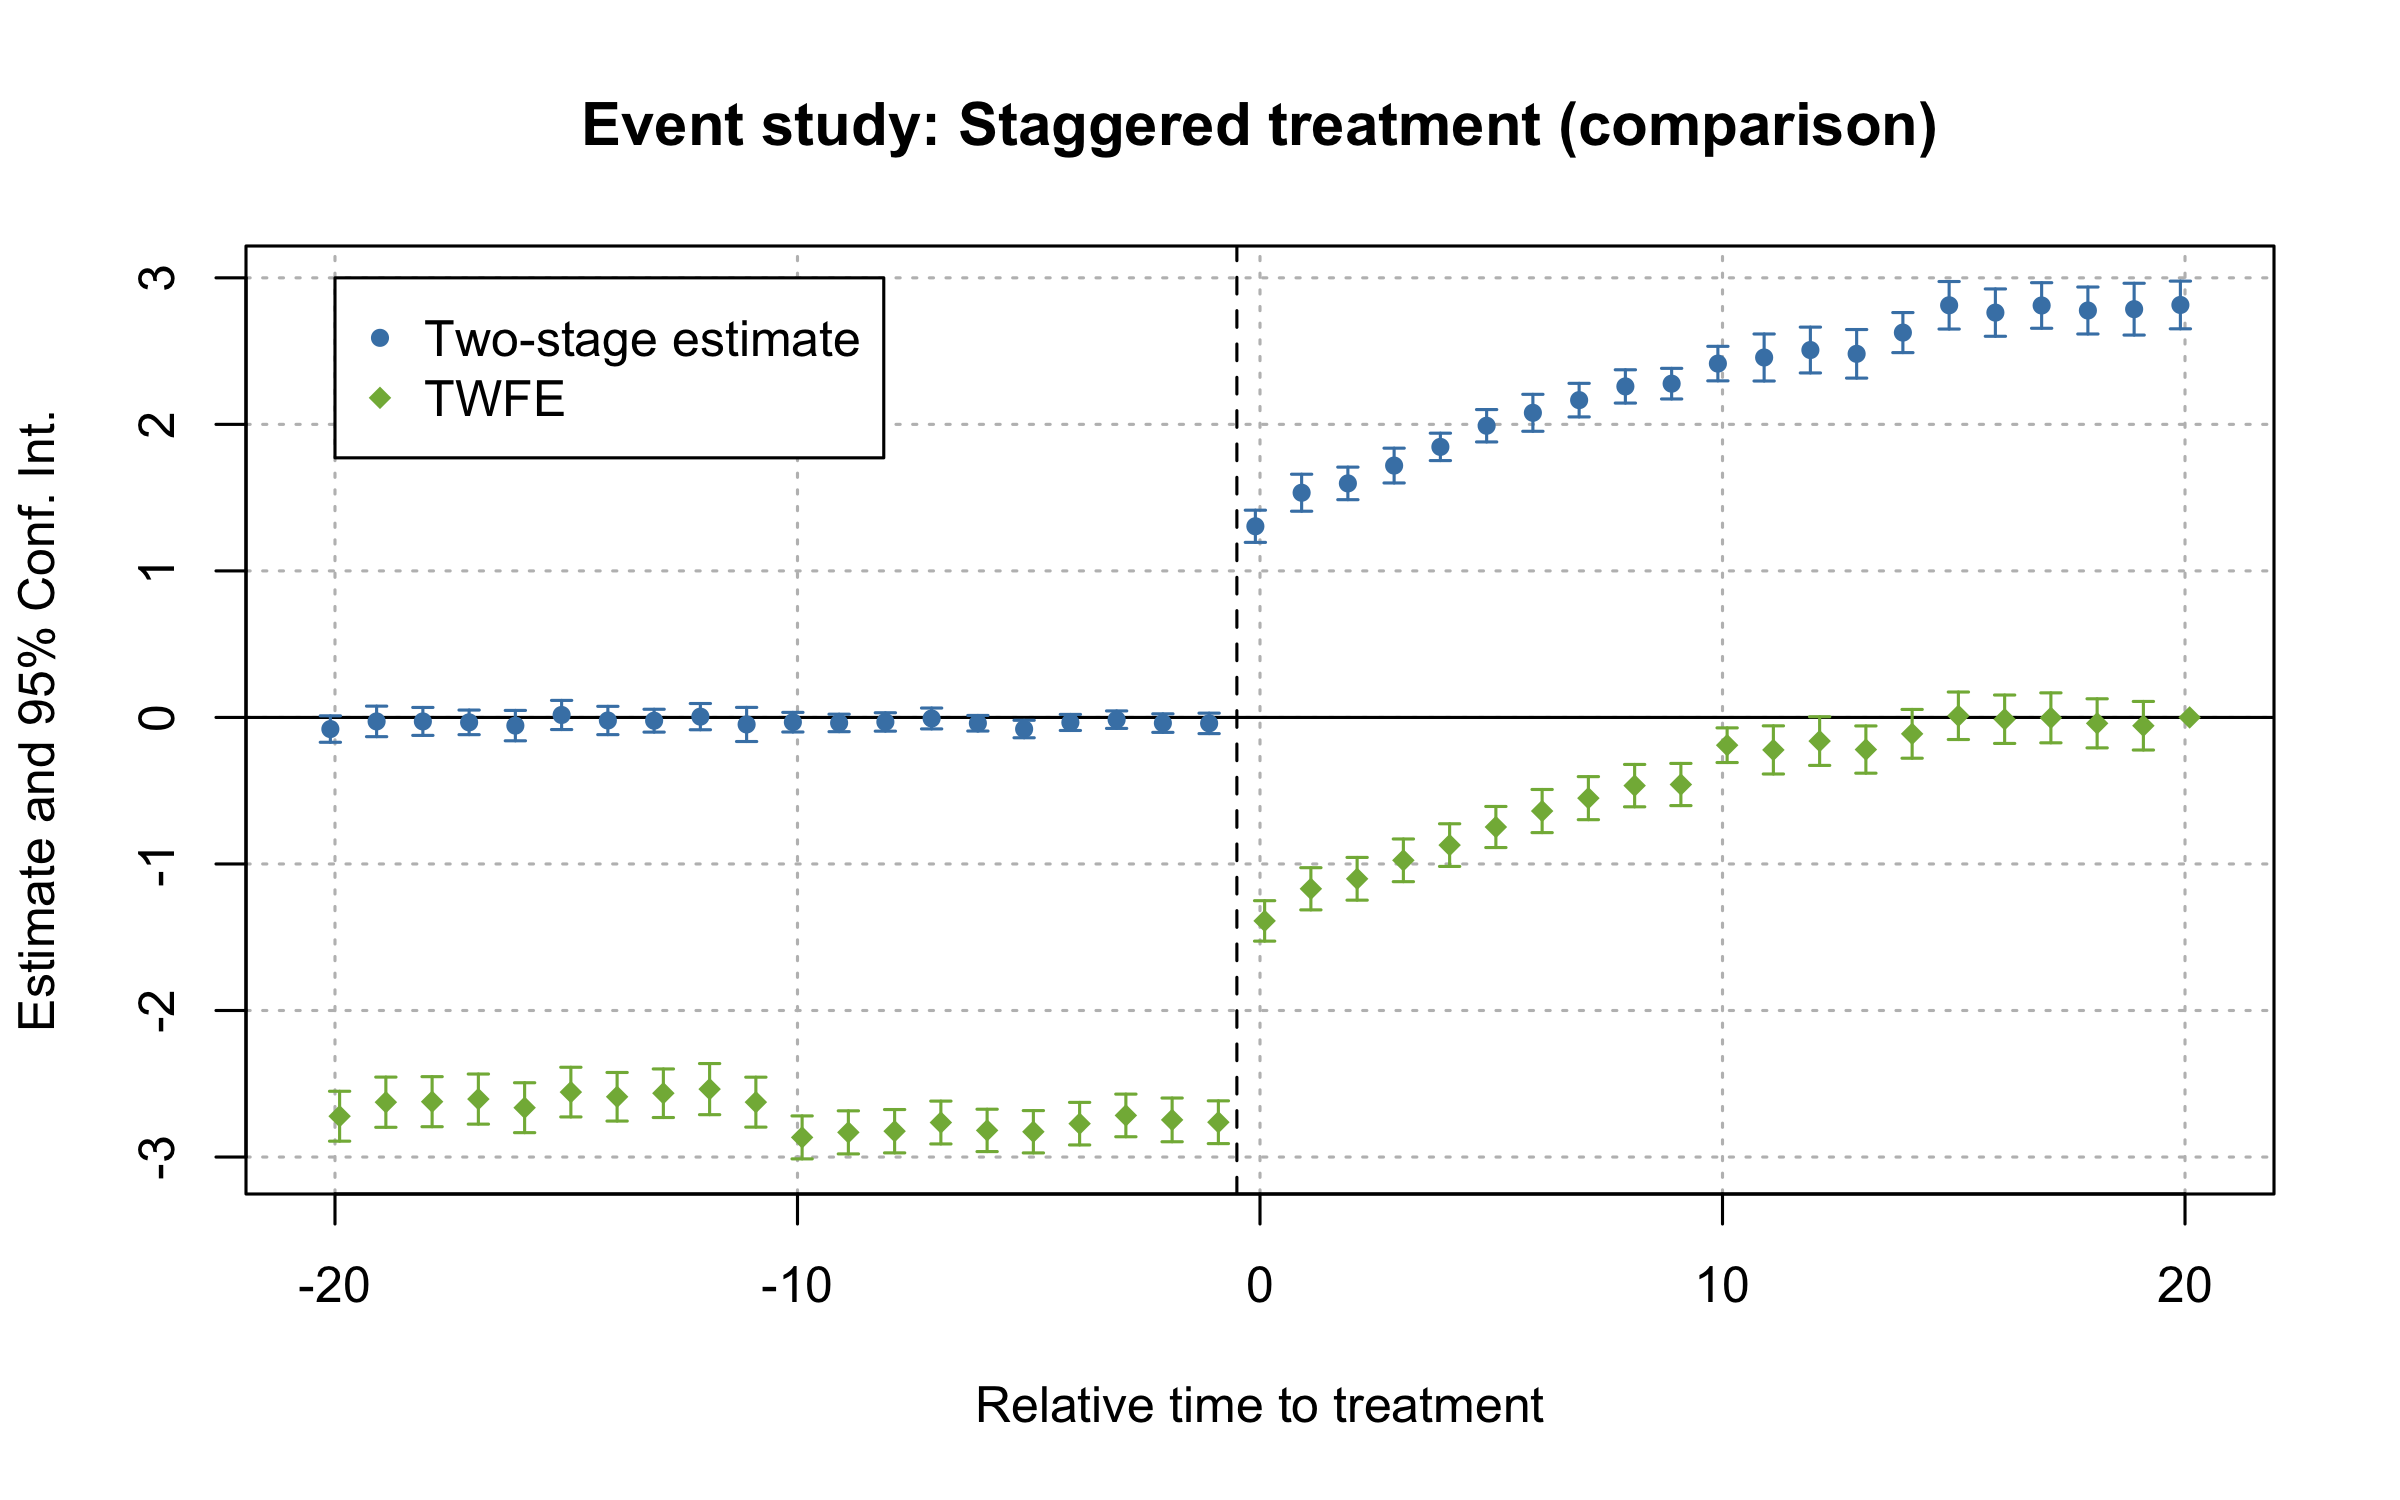
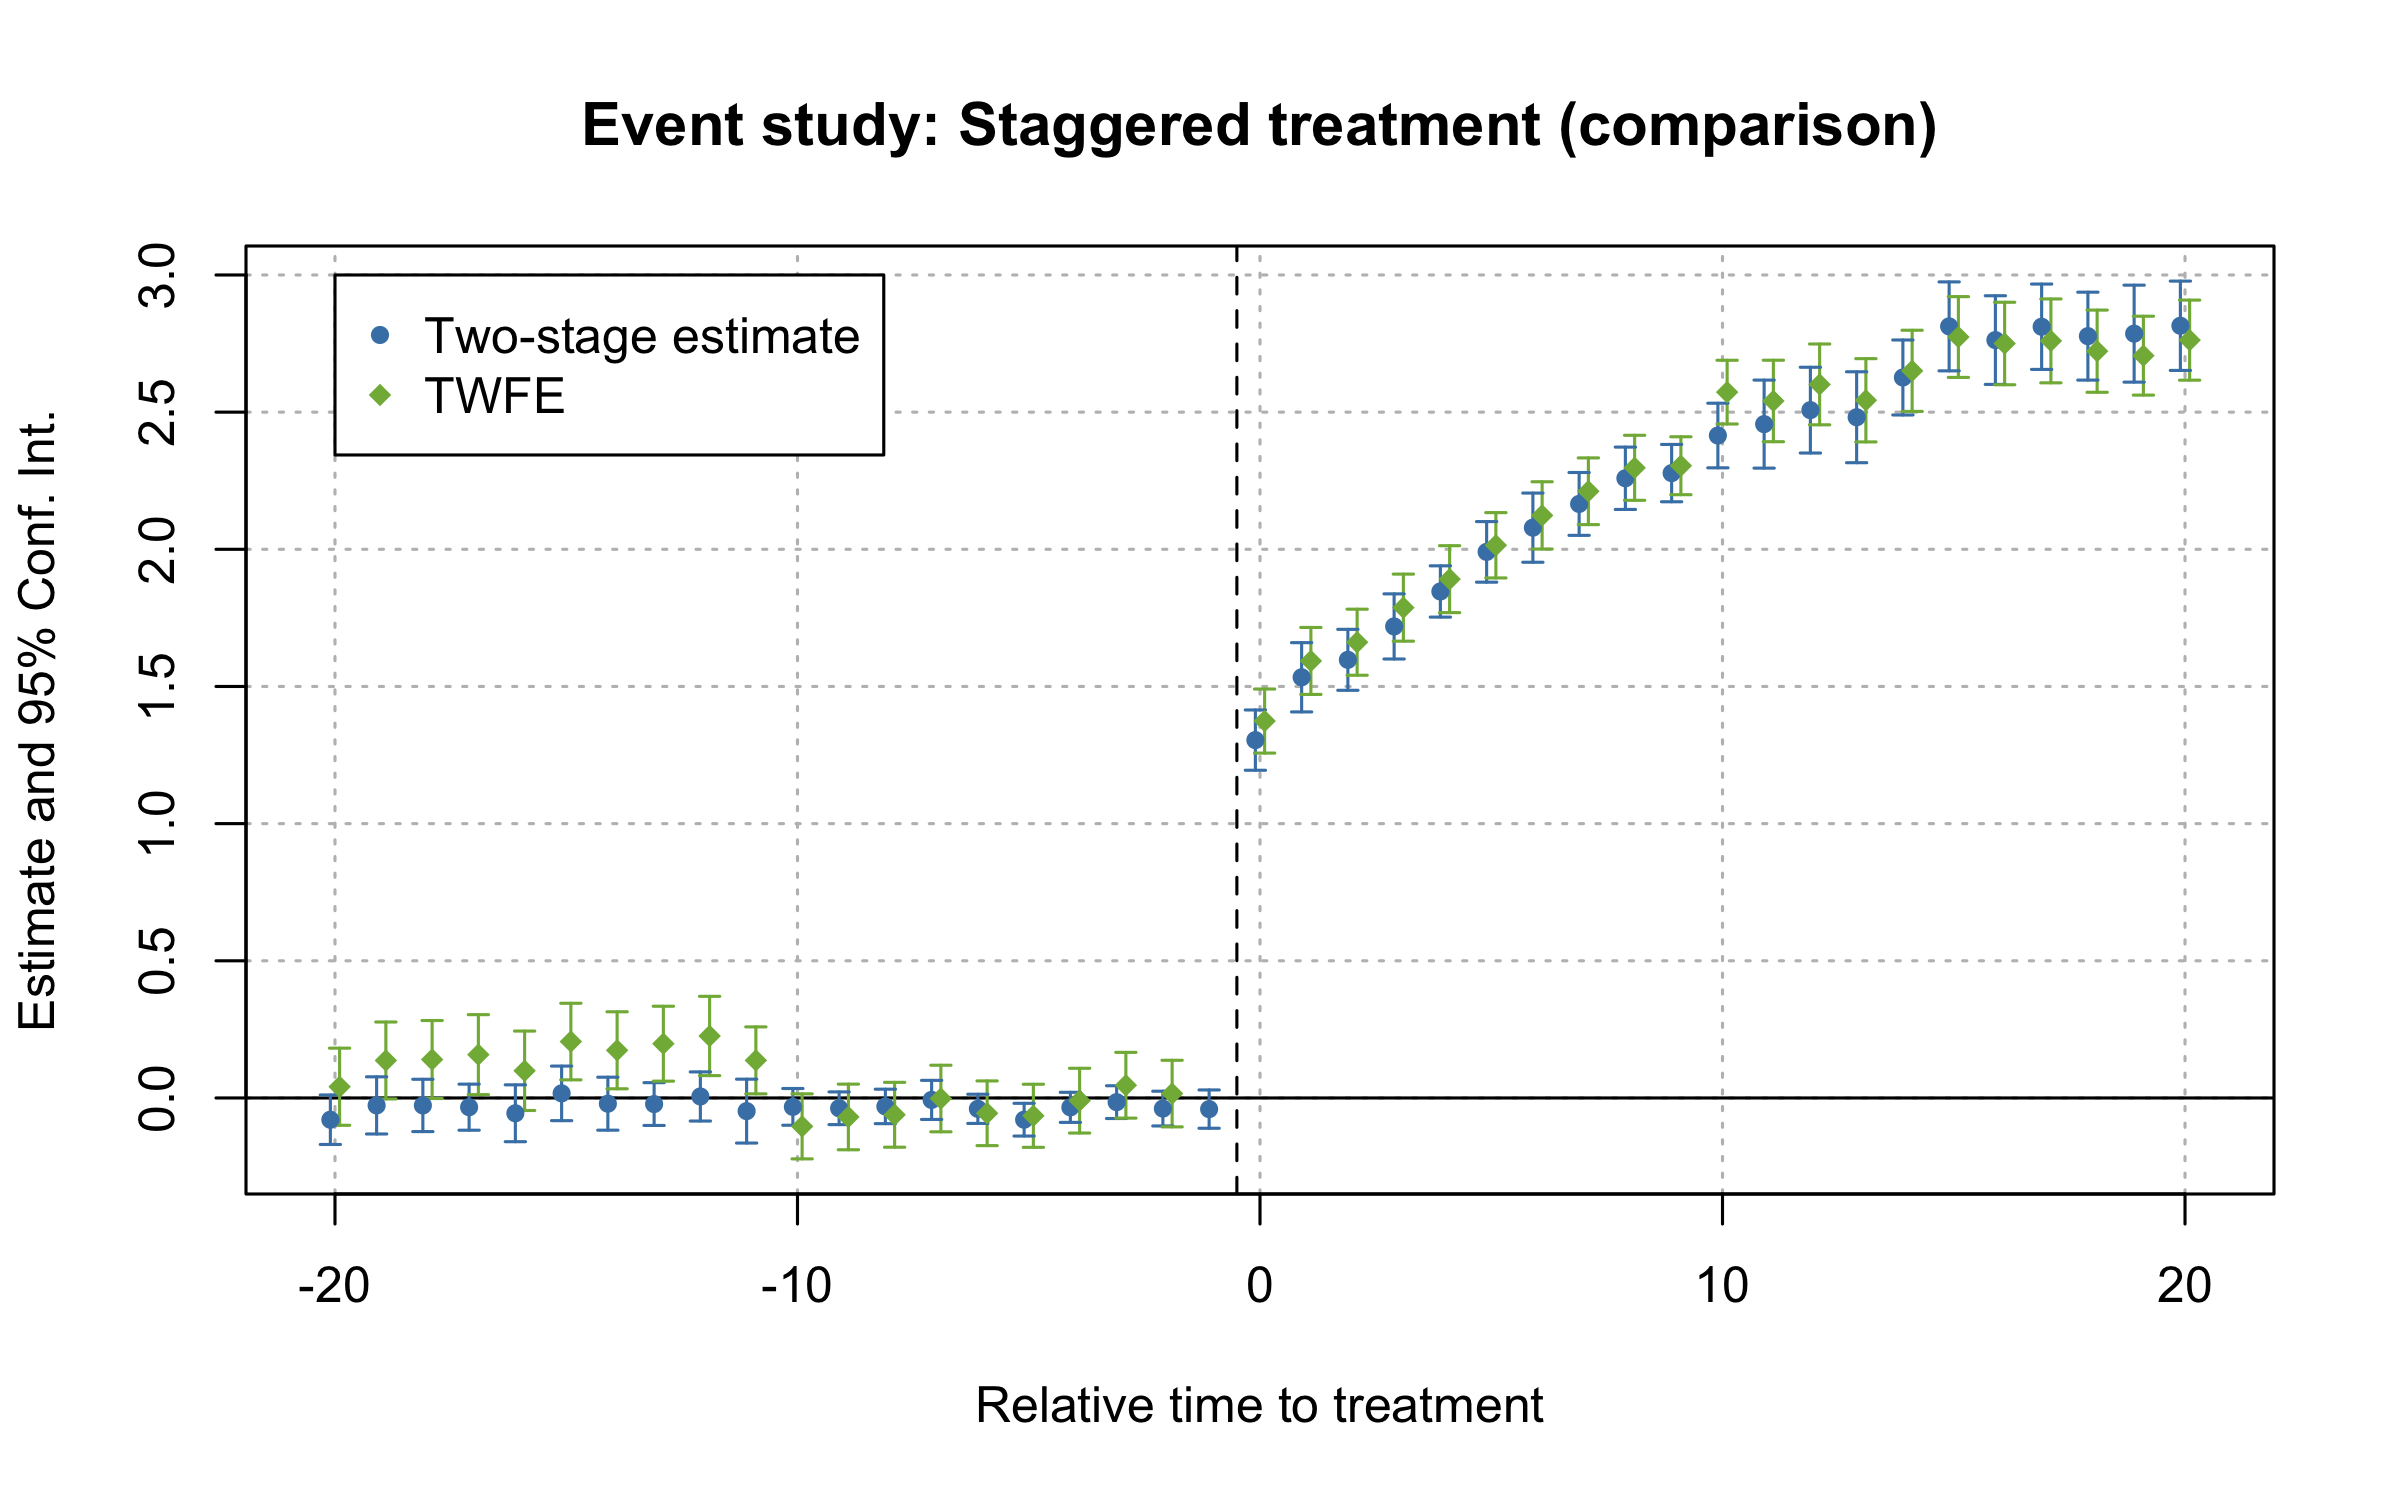
Fix readme bug

diff --git a/README.md b/README.md
@@ -218,11 +218,7 @@ Event-study plot with example data
 ### Comparison to TWFE
 
 ``` r
-twfe <- feols(dep_var ~ i(rel_year, ref = c(Inf)) | unit + year, data = df_het)
-#> The variable 'rel_year::20' has been removed because of collinearity (see $collin.var).
-```
-
-``` r
+twfe <- feols(dep_var ~ i(rel_year, ref = c(Inf, -1)) | unit + year, data = df_het)
 
 fixest::iplot(
   list(es, twfe),
